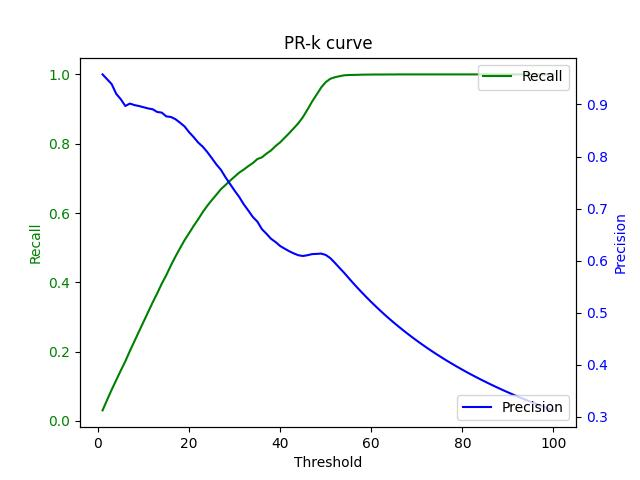
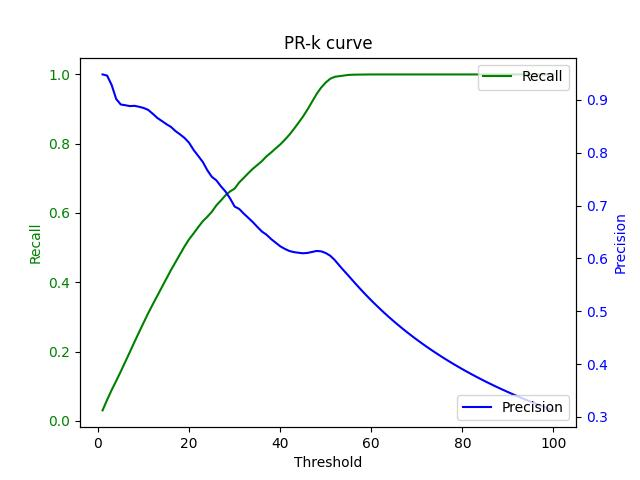
change fully funded to not fully funded and add eval for recommendation

diff --git a/project/model/recommendation.py b/project/model/recommendation.py
@@ -3,6 +3,7 @@ import joblib
 import json
 import seaborn as sns
 import matplotlib.pyplot as plt
+from model_evaluation import metrics
 
 
 def load_config(config_file="../config.json"):
@@ -25,7 +26,7 @@ def get_recommended_projects(projects_around_3_months, model_type, pov_level, qu
         classifier = joblib.load("../outputs/" + model_type + f"_calibrated_{pov_level}_poverty.pkl")
     else:
         classifier = joblib.load(f"../outputs/{model_type}_{pov_level}_poverty.pkl")
-    X_test = projects_around_3_months.drop(['fully_funded', 'date_posted', 'months_posted', 'projectid'], axis=1)
+    X_test = projects_around_3_months.drop(['not_fully_funded', 'date_posted', 'months_posted', 'projectid'], axis=1)
     pred_probs = classifier.predict_proba(X_test)[:, 1]
     preds = classifier.predict(X_test)
     projects_around_3_months_wtih_probs = projects_around_3_months.copy()
@@ -40,8 +41,8 @@ def get_recommended_projects(projects_around_3_months, model_type, pov_level, qu
     projects_around_3_months_wtih_probs[quant_variables] = scaler.inverse_transform(projects_around_3_months_wtih_probs[quant_variables])
     projects_around_3_months_wtih_probs = projects_around_3_months_wtih_probs[projects_around_3_months_wtih_probs["total_price_excluding_optional_support"] > 100]
 
-    # want to only recommend projects that have at least 50% funding
-    projects_around_3_months_wtih_probs = projects_around_3_months_wtih_probs[projects_around_3_months_wtih_probs["percentage_reached_month_3"] > 50]
+    # want to only recommend projects that have at least 50% funding HEREIN LIES THE PROBLEM
+    projects_around_3_months_wtih_probs = projects_around_3_months_wtih_probs[projects_around_3_months_wtih_probs["percentage_reached_month_3"] > 20]
 
     # sort model output by prediction probability
     projects_with_impact = projects_around_3_months_wtih_probs.copy()
@@ -113,6 +114,9 @@ def get_projects_at_3_months(date_for_recommendation, df):
     projects_around_3_months = projects_before_rec_date[projects_before_rec_date['months_posted'] == 3]
     return projects_around_3_months
 
+def eval_recommendation(y_pred, y_test):
+    metrics(y_test, y_pred)
+
 if __name__ == "__main__":
     config = load_config()
 
@@ -137,4 +141,8 @@ if __name__ == "__main__":
             else:
                 recs = get_recommended_projects_baseline(projects_around_3_months, model_type, pov_level)
             all_recs[f"{model_type}_{pov_level}"] = recs
+            print(f"Metrics for {pov_level} poverty level and {model_type}")
+            y_pred = recs["pred"]
+            y_test = recs["not_fully_funded"]
+            eval_recommendation(y_pred, y_test)
             print(f"Saved recommendation model output for {model_type} and {pov_level} poverty level")

diff --git a/project/model/model_training.py b/project/model/model_training.py
@@ -83,22 +83,22 @@ if __name__ == "__main__":
             continue
         elif model_type == "random_forest":
             classifier = RandomForestClassifier()
-            cross_validate(train_df, model_type, classifier, pov_lvl, "fully_funded")
+            cross_validate(train_df, model_type, classifier, pov_lvl, "not_fully_funded")
         elif model_type == "logistic_regression":
             classifier = LogisticRegression(max_iter=1000, solver="liblinear")
-            cross_validate(train_df, model_type, classifier, pov_lvl, "fully_funded")
+            cross_validate(train_df, model_type, classifier, pov_lvl, "not_fully_funded")
         elif model_type == "svm":
             classifier = svm.LinearSVC()
-            cross_validate(train_df, model_type, classifier, pov_lvl, "fully_funded")
+            cross_validate(train_df, model_type, classifier, pov_lvl, "not_fully_funded")
             calib_classifier = CalibratedClassifierCV(classifier, method='sigmoid')
-            cross_validate(train_df, model_type + "_calibrated", calib_classifier, pov_lvl, "fully_funded")
+            cross_validate(train_df, model_type + "_calibrated", calib_classifier, pov_lvl, "not_fully_funded")
         # split by poverty type, refer to config
         if split_by_poverty == "true":
             for pov_lvl, pov_col_name in config["poverty_columns"].items():
                 pov_train_df_path = f"../outputs/{pov_lvl}_pov_lvl_train_df.csv"
                 pov_train_df = pd.read_csv(pov_train_df_path)
-                cross_validate(pov_train_df, model_type, classifier, pov_lvl, "fully_funded")
+                cross_validate(pov_train_df, model_type, classifier, pov_lvl, "not_fully_funded")
                 if "svm" in model_type:
-                    cross_validate(pov_train_df, model_type + "_calibrated", calib_classifier, pov_lvl, "fully_funded")
+                    cross_validate(pov_train_df, model_type + "_calibrated", calib_classifier, pov_lvl, "not_fully_funded")
 
     print(f"Model training complete.")

diff --git a/project/model/model_evaluation.py b/project/model/model_evaluation.py
@@ -211,9 +211,9 @@ def evaluate(test_df, classifier, model_type, pov_lvl):
     pov_lvl: the poverty level for the model
     """
     X = test_df.copy()
-    y = test_df["fully_funded"]
-    if "fully_funded" in test_df.columns:
-        X = X.drop(["fully_funded"] , axis=1)
+    y = test_df["not_fully_funded"]
+    if "not_fully_funded" in test_df.columns:
+        X = X.drop(["not_fully_funded"] , axis=1)
     if "date_posted" in test_df.columns:
         X = X.drop(["date_posted"] , axis=1)
 
@@ -359,11 +359,11 @@ def collect_temporal_performance(test_df, classifier, model_type):
         if len(month_data) > 0:
             if model_type != "baseline":
                 # Drop date_posted and fully_funded for prediction
-                X = month_data.drop(["fully_funded", "date_posted"], axis=1)
-                y_true = month_data["fully_funded"]
+                X = month_data.drop(["not_fully_funded", "date_posted"], axis=1)
+                y_true = month_data["not_fully_funded"]
                 y_pred = classifier.predict(X)
             else:
-                y_true = month_data["fully_funded"]
+                y_true = month_data["not_fully_funded"]
                 y_pred = np.random.choice([0, 1], size=len(y_true))
             
             performance = recall_score(y_true, y_pred)

diff --git a/project/preprocessing/data_segment_and_balance.py b/project/preprocessing/data_segment_and_balance.py
@@ -13,7 +13,7 @@ def load_config(config_file="../config.json"):
 
 def smote_balancing(df, pov_col_name, config):
     '''
-    Use SMOTE to resample/upsample data to balance the two classes (fully_funded)
+    Use SMOTE to resample/upsample data to balance the two classes (not_fully_funded)
     so there is an even number for the specified poverty level
 
     df: the dataframe containing the features and outcome label
@@ -29,8 +29,8 @@ def smote_balancing(df, pov_col_name, config):
     date_posted_col = df["date_posted"]
 
     # create X and y
-    X = df.drop(['fully_funded', 'date_posted'], axis=1)
-    y = df['fully_funded']
+    X = df.drop(['not_fully_funded', 'date_posted'], axis=1)
+    y = df['not_fully_funded']
 
     # get only the rows with the specified poverty level
     new_X = X[X[pov_col_name] == True].drop(columns=[
@@ -74,7 +74,7 @@ def smote_balancing(df, pov_col_name, config):
 
     # assign new dates and new balanced outcome variable
     X_res["date_posted"] = final_dates
-    X_res["fully_funded"] = y_res
+    X_res["not_fully_funded"] = y_res
     return X_res.sort_values('date_posted')
 
 def scale_quant_vars(df, quant_variables, pov_lvl="none"):

diff --git a/project/preprocessing/data_cleaning.py b/project/preprocessing/data_cleaning.py
@@ -55,7 +55,7 @@ def clean_and_fill_data(df):
             df["school_metro"] = df.apply(lambda project: project["school_metro"] if isinstance(project["school_metro"], str) else get_school_metro(project, df_metro), axis=1)
             
             print(f"Filled {nulls} missing values in {imp} with estimate from ChatGPT.")
-        # negative 1 fill for unknown fully_funded rows (anything that is 2014)
+        # negative 1 fill for unknown not_fully_funded rows (anything that is 2014)
         elif projects_imputation[imp] == "neg1":
             df[imp] = df[imp].fillna(-1)
             print(f"Filled {nulls} missing values in {imp} with -1.")

diff --git a/project/preprocessing/feature_selection.py b/project/preprocessing/feature_selection.py
@@ -71,7 +71,8 @@ if __name__ == "__main__":
     # Select features from the merged dataset
     features_to_use = config.get("features_to_use", [])
     df_selected = select_features(merged_data, features_to_use)
-    df_selected['fully_funded'] = df_selected['fully_funded'].map({'t': int(0), 'f': int(1)})
+    df_selected.rename(columns={'fully_funded': 'not_fully_funded'}, inplace=True)
+    df_selected['not_fully_funded'] = df_selected['not_fully_funded'].map({'t': int(0), 'f': int(1)})
     dataset_path = "../outputs/selected_dataset.csv"
 
     output_dir = os.path.dirname(dataset_path)

diff --git a/project/split/train_test_split.py b/project/split/train_test_split.py
@@ -23,7 +23,7 @@ def split_data(df, drop_year, test_year):
     train_df = new_df[new_df['date_posted'].str[:4] != test_year]
     
     # for projects posted in september, if not fully funded, drop
-    train_df = train_df.drop(train_df[(train_df['date_posted'].str[5:7] == '09') & (train_df['fully_funded'] == 0)].index)
+    train_df = train_df.drop(train_df[(train_df['date_posted'].str[5:7] == '09') & (train_df['not_fully_funded'] == 0)].index)
 
     # return training data and testing data sets
     return train_df.sort_values(by="date_posted"), test_df.sort_values(by="date_posted")
